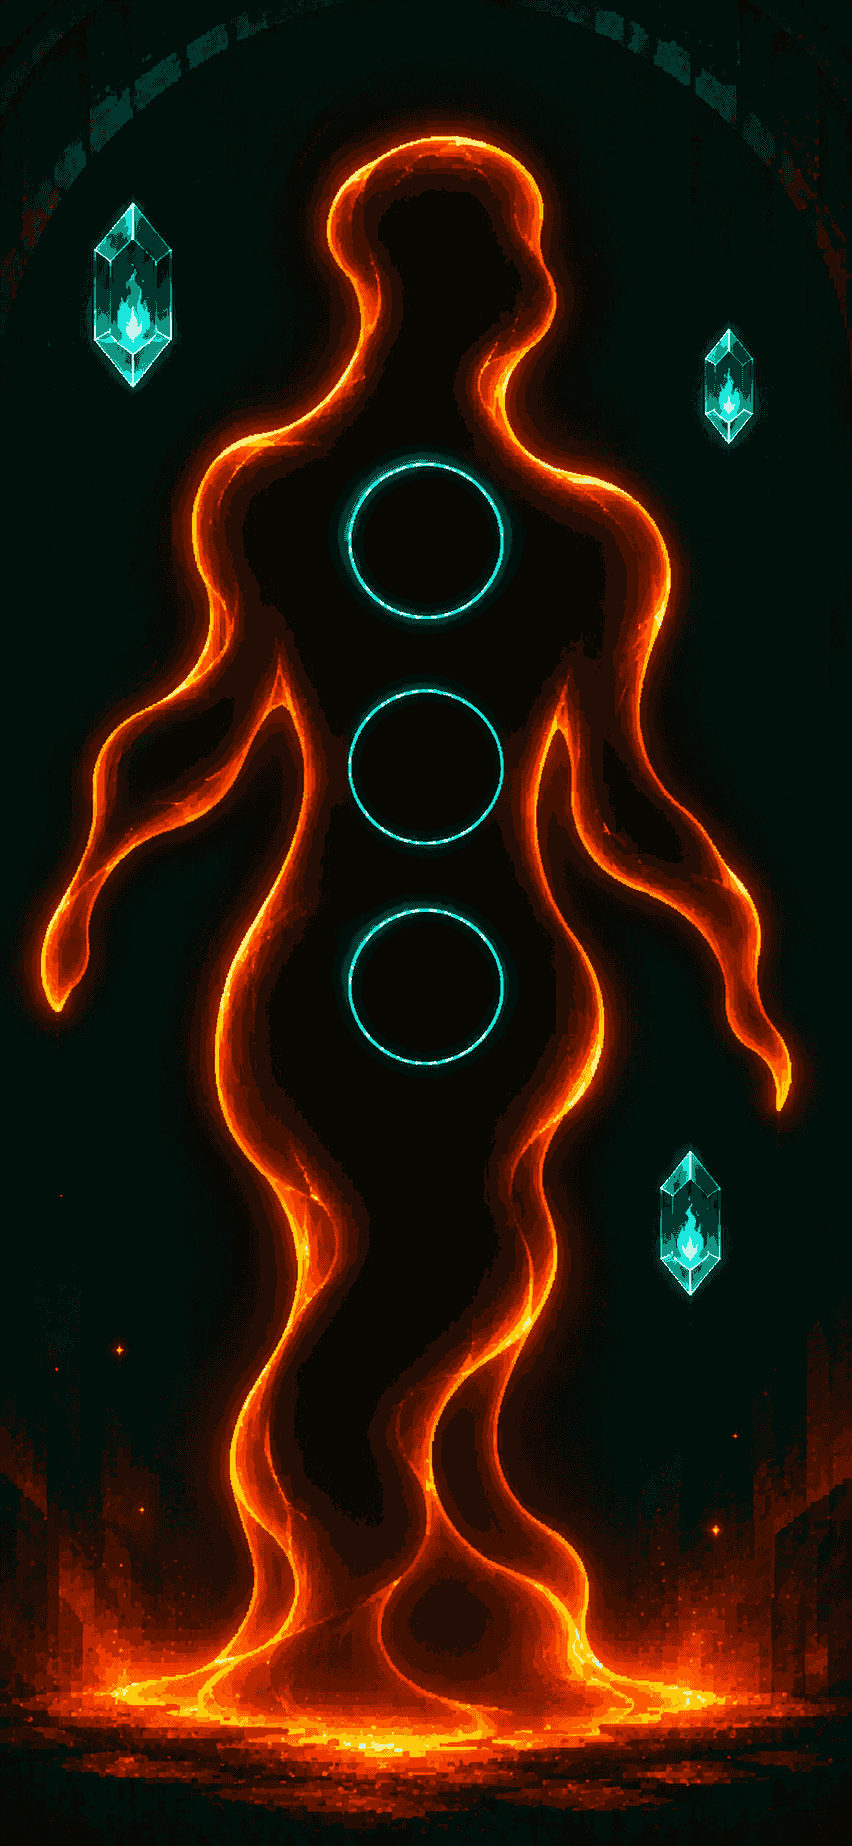
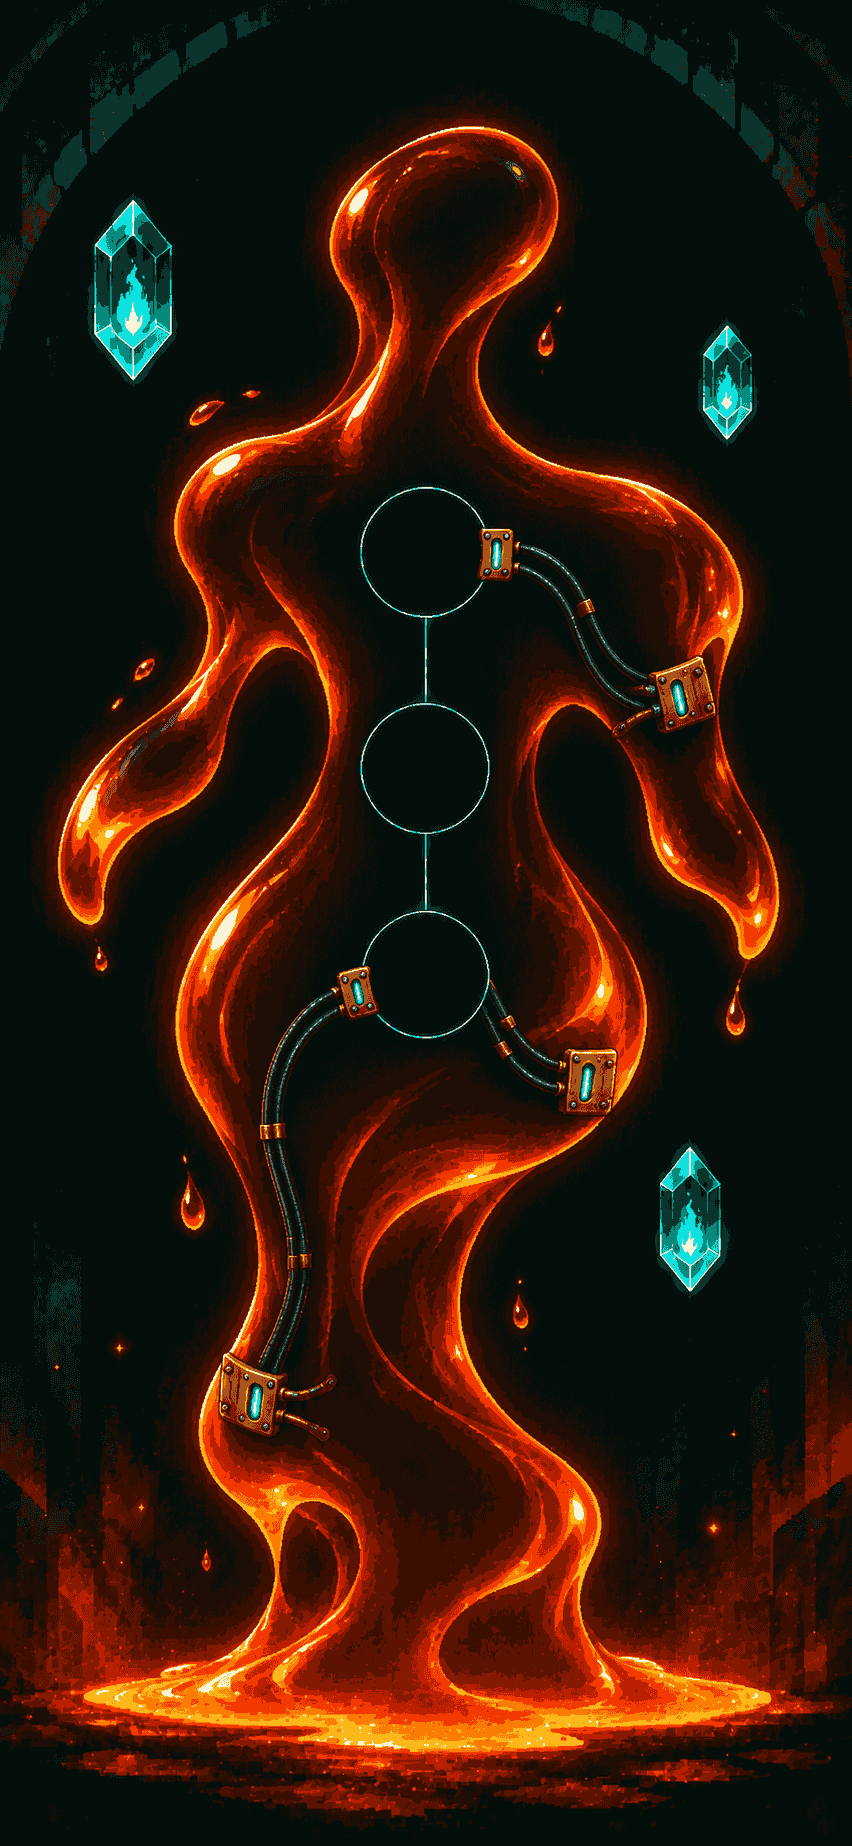
fix(soulsmith): arte final do dono (#591)
* fix(soulsmith): arte final do dono, com chakras nos aneis

* test(soulsmith): chakras nos aneis da arte final

* fix(soulsmith): arte escolhida pelo dono, vidro derretido

---------

diff --git a/src/components/ForgeCard.mapa.render.test.tsx b/src/components/ForgeCard.mapa.render.test.tsx
@@ -48,11 +48,11 @@ describe('Soulsmith em mapa', () => {
     abrir({});
     expect(document.querySelector('[data-vitra-stage]')).not.toBeNull();
     const { CHAKRA } = await import('./forge/VitraMap');
-    expect(CHAKRA.nucleo).toMatchObject({ x: 50, y: 29.25 });
-    expect(CHAKRA.carapaca).toMatchObject({ x: 50, y: 41.5 });
-    expect(CHAKRA.rastro).toMatchObject({ x: 50, y: 53.5 });
+    expect(CHAKRA.nucleo).toMatchObject({ x: 50, y: 29.9 });
+    expect(CHAKRA.carapaca).toMatchObject({ x: 50, y: 41.6 });
+    expect(CHAKRA.rastro).toMatchObject({ x: 50, y: 53 });
     const spot = chakra('nucleo').parentElement as HTMLElement;
-    expect(spot.style.left).toBe('50%'); expect(spot.style.top).toBe('29.25%');
+    expect(spot.style.left).toBe('50%'); expect(spot.style.top).toBe('29.9%');
     expect(document.querySelector('[data-vitra-back]')).toBeNull();
     cleanup();
     const onBack = vi.fn();

diff --git a/src/index.css b/src/index.css
@@ -5821,7 +5821,7 @@ select:focus-visible {
 .sm2-vit-foot > * { margin: 0; pointer-events: auto; text-shadow: 0 1px 6px rgba(0, 0, 0, .8); }
 .sm2-vit-chakra {
   position: absolute; left: 0; top: 0; transform: translate(-50%, -50%);
-  display: grid; place-items: center; width: max(44px, 18cqw); height: max(44px, 18cqw); padding: 0; margin: 0; cursor: pointer;
+  display: grid; place-items: center; width: max(44px, 15.3cqw); height: max(44px, 15.3cqw); padding: 0; margin: 0; cursor: pointer;
   border-radius: 50%; border: 1px solid var(--sm2-line); background: color-mix(in srgb, #06171A 78%, transparent); color: var(--sm2-ink);
   transition: box-shadow var(--sm2-dur-tap) var(--sm2-ease), border-color var(--sm2-dur-tap) var(--sm2-ease);
   &[data-owned="true"] { border-color: color-mix(in srgb, var(--sm2-gold-ink) 70%, transparent); }

diff --git a/src/components/forge/VitraMap.tsx b/src/components/forge/VitraMap.tsx
@@ -13,9 +13,9 @@ import { VITRA_MAP_ART } from '../../assets/soulmon/vitra';
 
 /** Centro de cada chakra em % do PALCO (a arte inteira, 852x1846), medido nos anéis de `vitra-mapa.png`; o diâmetro do anel é 18% da largura. */
 export const CHAKRA: Readonly<Record<EquipSlot, { x: number; y: number; side: 'below' }>> = {
-  nucleo: { x: 50, y: 29.25, side: 'below' },
-  carapaca: { x: 50, y: 41.5, side: 'below' },
-  rastro: { x: 50, y: 53.5, side: 'below' },
+  nucleo: { x: 50, y: 29.9, side: 'below' },
+  carapaca: { x: 50, y: 41.6, side: 'below' },
+  rastro: { x: 50, y: 53, side: 'below' },
 };
 
 export interface VitraChakra {
